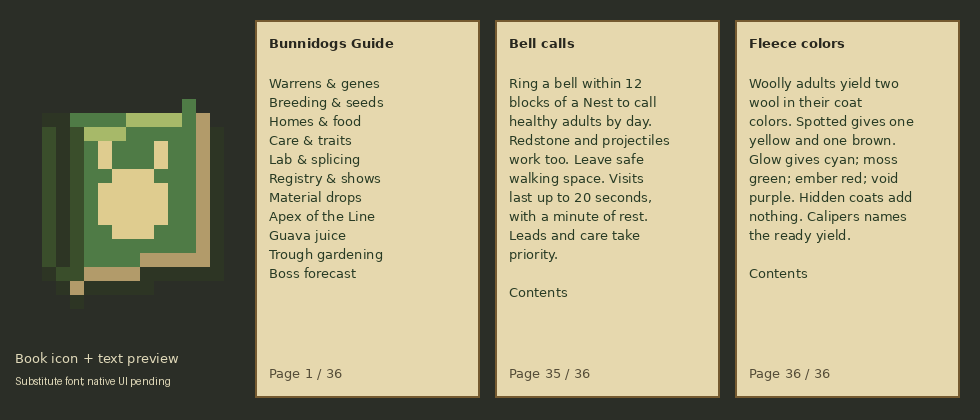
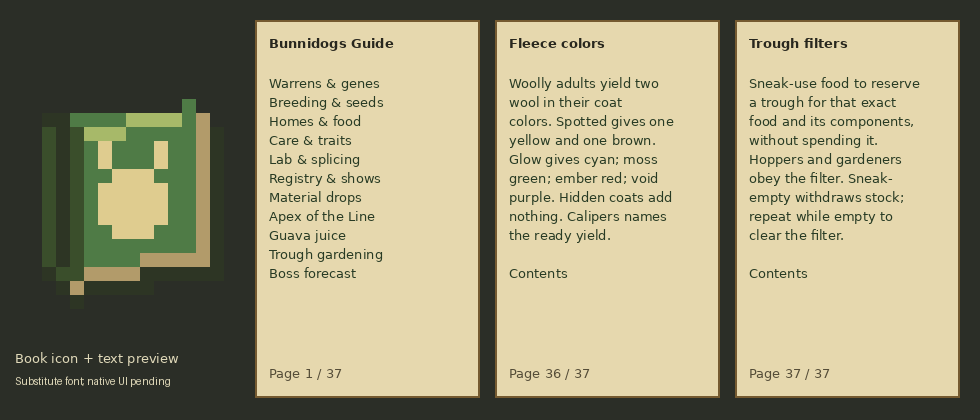
Reserve exact food in saved trough filters across automated gardens

diff --git a/tools/gametest/java/com/bunnidogs/mod/entity/TroughFilterGameTest.java b/tools/gametest/java/com/bunnidogs/mod/entity/TroughFilterGameTest.java
@@ -1,0 +1,75 @@
+package com.bunnidogs.mod.entity;
+
+import com.bunnidogs.mod.block.FeedingTroughBlockEntity;
+import com.bunnidogs.mod.registry.ModBlocks;
+import net.minecraft.core.BlockPos;
+import net.minecraft.core.Direction;
+import net.minecraft.core.component.DataComponents;
+import net.minecraft.gametest.framework.GameTestHelper;
+import net.minecraft.network.chat.Component;
+import net.minecraft.world.InteractionHand;
+import net.minecraft.world.entity.item.ItemEntity;
+import net.minecraft.world.item.ItemStack;
+import net.minecraft.world.item.Items;
+import net.minecraft.world.level.block.entity.BlockEntity;
+import net.minecraft.world.phys.AABB;
+import net.minecraft.world.phys.BlockHitResult;
+import net.minecraft.world.phys.Vec3;
+import net.neoforged.neoforge.capabilities.Capabilities;
+import net.neoforged.neoforge.transfer.item.ItemResource;
+import net.neoforged.neoforge.transfer.transaction.Transaction;
+
+public final class TroughFilterGameTest {
+    private TroughFilterGameTest() {}
+    public static void run(GameTestHelper h) {
+        var level = h.getLevel();
+        h.setBlock(3,1,3,ModBlocks.FEEDING_TROUGH.get());
+        var pos = h.absolutePos(new BlockPos(3,1,3));
+        var trough = (FeedingTroughBlockEntity)level.getBlockEntity(pos);
+        var player = h.makeMockServerPlayerInLevel();
+        player.setShiftKeyDown(true);
+        var named = new ItemStack(Items.CARROT,8);
+        named.set(DataComponents.CUSTOM_NAME,Component.literal("Nursery carrots"));
+        player.setItemInHand(InteractionHand.MAIN_HAND,named);
+        var hit = new BlockHitResult(Vec3.atCenterOf(pos),Direction.UP,pos,false);
+        h.assertTrue(player.gameMode.useItemOn(player,level,named,InteractionHand.MAIN_HAND,hit).consumesAction(),
+                "Actual crouched server interaction must reach filtering instead of bypassing the block");
+        h.assertTrue(trough.food().isEmpty() && named.getCount() == 8 && trough.filter().getCount() == 1
+                && ItemStack.isSameItemSameComponents(named,trough.filter()),"A virtual exact-component filter must spend no food or create stock");
+        var handler = level.getCapability(Capabilities.Item.BLOCK,pos,Direction.UP);
+        try (var tx = Transaction.openRoot()) {
+            h.assertTrue(handler.insert(ItemResource.of(Items.CARROT),3,tx) == 0
+                    && handler.insert(ItemResource.of(Items.POTATO),3,tx) == 0
+                    && handler.insert(ItemResource.of(named),3,tx) == 3,"Empty filtered automation must reject different components/types and accept its exact template");
+            tx.commit();
+        }
+        var potato = new ItemStack(Items.POTATO,8);
+        player.setItemInHand(InteractionHand.MAIN_HAND,potato);
+        player.gameMode.useItemOn(player,level,potato,InteractionHand.MAIN_HAND,hit);
+        h.assertTrue(trough.food().getCount() == 3 && ItemStack.isSameItemSameComponents(named,trough.filter())
+                && potato.getCount() == 8,"A conflicting filter change must retain stock, filter and held food");
+        var saved = trough.saveWithFullMetadata(level.registryAccess());
+        var restored = (FeedingTroughBlockEntity)BlockEntity.loadStatic(pos,trough.getBlockState(),saved,level.registryAccess());
+        h.assertTrue(ItemStack.matches(restored.food(),trough.food()) && ItemStack.matches(restored.filter(),trough.filter())
+                && restored.insert(new ItemStack(Items.CARROT)) == 0,"Native saves must retain exact stock/filter components and enforce the filter");
+        saved.remove("FoodFilter");
+        var legacy = (FeedingTroughBlockEntity)BlockEntity.loadStatic(pos,trough.getBlockState(),saved,level.registryAccess());
+        h.assertTrue(legacy.filter().isEmpty() && legacy.food().getCount() == 3,"Legacy saves must keep stock and remain unfiltered");
+        player.setItemInHand(InteractionHand.MAIN_HAND,ItemStack.EMPTY);
+        player.gameMode.useItemOn(player,level,ItemStack.EMPTY,InteractionHand.MAIN_HAND,hit);
+        h.assertTrue(trough.food().isEmpty() && !trough.filter().isEmpty(),"Withdrawing the final stock must preserve its reservation");
+        int beforeClear = player.getInventory().countItem(Items.CARROT);
+        // Native withdrawal may fill the selected empty slot; free the hand without discarding that food.
+        player.getInventory().setItem(1,player.getMainHandItem());
+        player.setItemInHand(InteractionHand.MAIN_HAND,ItemStack.EMPTY);
+        player.gameMode.useItemOn(player,level,ItemStack.EMPTY,InteractionHand.MAIN_HAND,hit);
+        h.assertTrue(trough.filter().isEmpty() && beforeClear == 3 && player.getInventory().countItem(Items.CARROT) == 3,
+                "Clearing an empty reservation must never refund its virtual template");
+        trough.setFilter(named); trough.insert(named.copyWithCount(2));
+        level.destroyBlock(pos,true);
+        int dropped = level.getEntitiesOfClass(ItemEntity.class,new AABB(pos).inflate(1),e -> ItemStack.isSameItemSameComponents(named,e.getItem()))
+                .stream().mapToInt(e -> e.getItem().getCount()).sum();
+        h.assertTrue(dropped == 2,"Breaking a reserved trough must drop only real stock, never its filter template");
+        h.succeed();
+    }
+}

diff --git a/src/main/java/com/bunnidogs/mod/block/FeedingTroughBlockEntity.java b/src/main/java/com/bunnidogs/mod/block/FeedingTroughBlockEntity.java
@@ -29,11 +29,12 @@ import net.neoforged.neoforge.transfer.item.ItemStackResourceHandler;
 public final class FeedingTroughBlockEntity extends BlockEntity {
     public static final int CAPACITY = 16;
     private ItemStack food = ItemStack.EMPTY;
+    private ItemStack filter = ItemStack.EMPTY;
     /** One journal for every side, retaining the existing Food save and exact components. */
     private final ItemStackResourceHandler automation = new ItemStackResourceHandler() {
         @Override protected ItemStack getStack() { return food; }
         @Override protected void setStack(ItemStack stack) { food = stack; }
-        @Override protected boolean isValid(ItemResource resource) { return accepts(resource.toStack()); }
+        @Override protected boolean isValid(ItemResource resource) { return acceptsInput(resource.toStack()); }
         @Override protected int getCapacity(ItemResource resource) {
             return resource.isEmpty() ? CAPACITY : Math.min(CAPACITY,resource.getMaxStackSize());
         }
@@ -45,23 +46,33 @@ public final class FeedingTroughBlockEntity extends BlockEntity {
                 && (stack.is(ModItems.BUNNIDOG_FOOD) || Arrays.stream(Diet.values()).anyMatch(d -> ModDietTags.accepts(d,stack)));
     }
     public ItemStack food() { return this.food; }
+    public ItemStack filter() { return this.filter.copy(); }
+    private boolean acceptsInput(ItemStack stack) {
+        return accepts(stack) && (this.filter.isEmpty() || ItemStack.isSameItemSameComponents(this.filter,stack));
+    }
+    /** A virtual one-item template, never taken from inventory or dropped as stock. */
+    public boolean setFilter(ItemStack stack) {
+        if (!accepts(stack) || !this.food.isEmpty() && !ItemStack.isSameItemSameComponents(this.food,stack)) return false;
+        this.filter = stack.copyWithCount(1); changed(); return true;
+    }
+    public void clearFilter() { this.filter = ItemStack.EMPTY; changed(); }
     public ResourceHandler<ItemResource> automation() { return this.automation; }
     public int stockSignal() {
         return this.food.isEmpty() ? 0 : 1+14*Math.min(this.food.getCount(),Math.min(CAPACITY,this.food.getMaxStackSize()))
                 / Math.min(CAPACITY,this.food.getMaxStackSize());
     }
     public boolean canInsert(ItemStack stack) {
-        return accepts(stack) && (this.food.isEmpty() || ItemStack.isSameItemSameComponents(this.food,stack))
+        return acceptsInput(stack) && (this.food.isEmpty() || ItemStack.isSameItemSameComponents(this.food,stack))
                 && this.food.getCount() < Math.min(CAPACITY,stack.getMaxStackSize());
     }
     /** Only new worldgen furniture uses this; no live-server block writes from a WorldGenRegion. */
     public void setInitialFood(ItemStack stack) {
-        if (!this.food.isEmpty() || !accepts(stack)) return;
+        if (!this.food.isEmpty() || !acceptsInput(stack)) return;
         this.food = stack.copyWithCount(Math.min(stack.getCount(),Math.min(CAPACITY,stack.getMaxStackSize())));
         this.setChanged();
     }
     public int insert(ItemStack stack) {
-        if (!accepts(stack) || !this.food.isEmpty() && !ItemStack.isSameItemSameComponents(this.food,stack)) return 0;
+        if (!acceptsInput(stack) || !this.food.isEmpty() && !ItemStack.isSameItemSameComponents(this.food,stack)) return 0;
         int amount = Math.max(0,Math.min(stack.getCount(),Math.min(CAPACITY,stack.getMaxStackSize())-this.food.getCount()));
         if (amount > 0) {
             if (this.food.isEmpty()) this.food = stack.copyWithCount(amount); else this.food.grow(amount);
@@ -90,9 +101,11 @@ public final class FeedingTroughBlockEntity extends BlockEntity {
     @Override protected void saveAdditional(ValueOutput output) {
         super.saveAdditional(output);
         if (!this.food.isEmpty()) output.store("Food",ItemStack.CODEC,this.food);
+        if (!this.filter.isEmpty()) output.store("FoodFilter",ItemStack.CODEC,this.filter);
     }
     @Override protected void loadAdditional(ValueInput input) {
         super.loadAdditional(input); this.food = input.read("Food",ItemStack.CODEC).orElse(ItemStack.EMPTY);
+        this.filter = input.read("FoodFilter",ItemStack.CODEC).map(stack -> stack.copyWithCount(1)).orElse(ItemStack.EMPTY);
     }
     @Override public void preRemoveSideEffects(BlockPos pos, BlockState state) {
         super.preRemoveSideEffects(pos,state);

diff --git a/src/main/java/com/bunnidogs/mod/block/FeedingTroughBlock.java b/src/main/java/com/bunnidogs/mod/block/FeedingTroughBlock.java
@@ -50,9 +50,15 @@ public final class FeedingTroughBlock extends Block implements EntityBlock {
         }
         if (!FeedingTroughBlockEntity.accepts(stack)) return super.useItemOn(stack,state,level,pos,player,hand,hit);
         if (!level.isClientSide() && level.getBlockEntity(pos) instanceof FeedingTroughBlockEntity trough) {
+            if (player.isShiftKeyDown()) {
+                player.sendOverlayMessage(trough.setFilter(stack)
+                        ? Component.translatable("message.bunnidogs.trough.filter_set",stack.getHoverName())
+                        : Component.translatable("message.bunnidogs.trough.filter_conflict"));
+                return InteractionResult.SUCCESS;
+            }
             int added = trough.insert(stack);
             if (!player.hasInfiniteMaterials()) stack.shrink(added);
-            player.sendOverlayMessage(Component.translatable("message.bunnidogs.trough.added",added,trough.food().getCount()));
+            player.sendOverlayMessage(withFilter(trough,Component.translatable("message.bunnidogs.trough.added",added,trough.food().getCount())));
         }
         return InteractionResult.SUCCESS;
     }
@@ -60,11 +66,20 @@ public final class FeedingTroughBlock extends Block implements EntityBlock {
         if (!player.getMainHandItem().isEmpty()) return InteractionResult.PASS;
         if (!level.isClientSide() && level.getBlockEntity(pos) instanceof FeedingTroughBlockEntity trough) {
             if (player.isShiftKeyDown() && player.getOffhandItem().isEmpty() && player.mayBuild()) {
+                if (trough.food().isEmpty() && !trough.filter().isEmpty()) {
+                    trough.clearFilter();
+                    player.sendOverlayMessage(Component.translatable("message.bunnidogs.trough.filter_cleared"));
+                    return InteractionResult.SUCCESS;
+                }
                 ItemStack taken = trough.takeAll();
                 if (!player.getInventory().add(taken)) player.drop(taken,false);
-            } else player.sendOverlayMessage(trough.food().isEmpty() ? Component.translatable("message.bunnidogs.trough.empty")
-                    : Component.translatable("message.bunnidogs.trough.stock",trough.food().getCount(),trough.food().getHoverName()));
+                if (!trough.filter().isEmpty()) player.sendOverlayMessage(Component.translatable("message.bunnidogs.trough.filtered",trough.filter().getHoverName()));
+            } else player.sendOverlayMessage(withFilter(trough,trough.food().isEmpty() ? Component.translatable("message.bunnidogs.trough.empty")
+                    : Component.translatable("message.bunnidogs.trough.stock",trough.food().getCount(),trough.food().getHoverName())));
         }
         return InteractionResult.SUCCESS;
+    }
+    private static Component withFilter(FeedingTroughBlockEntity trough, Component stock) {
+        return trough.filter().isEmpty() ? stock : Component.translatable("message.bunnidogs.trough.stock_filter",stock,trough.filter().getHoverName());
     }
 }

diff --git a/art/gen_settlement.py b/art/gen_settlement.py
@@ -48,8 +48,13 @@ def main():
         value = json.loads(path.read_text()); value.update({
           'block.bunnidogs.feeding_trough':'Feeding Trough',
           'message.bunnidogs.trough.added':'Added %s food; %s stored. One food type, up to 16.',
-          'message.bunnidogs.trough.empty':'Empty trough. Add food; use a hoe to toggle resident gardening.',
-          'message.bunnidogs.trough.stock':'Stored: %s x %s. Sneak-empty: withdraw. Hoe: toggle gardening.',
+          'message.bunnidogs.trough.empty':'Empty trough. Add food; sneak-food sets a filter. Hoe: toggle gardening.',
+          'message.bunnidogs.trough.stock':'Stored: %s x %s. Sneak-empty: withdraw. Sneak-food: filter. Hoe: gardening.',
+          'message.bunnidogs.trough.filter_set':'Reserved for %s with matching components. Food was not consumed.',
+          'message.bunnidogs.trough.filter_conflict':'Withdraw the different stored food before changing the filter.',
+          'message.bunnidogs.trough.filtered':'Reserved for %s with matching components. Sneak-empty while empty clears the filter.',
+          'message.bunnidogs.trough.filter_cleared':'Food filter cleared. This trough accepts any suitable food again.',
+          'message.bunnidogs.trough.stock_filter':'%s Reserved for %s (matching components).',
           'message.bunnidogs.trough.tending.on':'Gardening enabled. Healthy residents tend matching ripe crops beside this trough.',
           'message.bunnidogs.trough.tending.off':'Gardening disabled. Residents still eat stored food.',
           'message.bunnidogs.care.gardening':'Gardening: %s',
@@ -60,7 +65,7 @@ def main():
           'message.bunnidogs.gardening.home':'needs a claimed Nest',
           'message.bunnidogs.gardening.daytime':'rests at night',
           'message.bunnidogs.gardening.transported':'paused while led or riding',
-          'message.bunnidogs.gardening.danger':'paused by danger or a recent attack',
+          'message.bunnidogs.gardening.danger':'paused by danger, seeking refuge or a recent attack',
           'message.bunnidogs.gardening.outside_home':'needs to be within 16 blocks of its Nest',
           'message.bunnidogs.gardening.griefing_off':'needs mob griefing enabled'})
         path.write_text(json.dumps(value,indent=2)+'\n')

diff --git a/art/gen_guide.py b/art/gen_guide.py
@@ -40,6 +40,7 @@ PAGES = {
     34: ('Trough automation', 'Hoppers fill troughs from above or the side; one below drains stock. Keep it powered to hold food. One food stack fits up to 16. Comparators read stock: 0 empty, 15 full. A hoe still controls gardening.'),
     35: ('Bell calls', 'Ring a bell within 12 blocks of a Nest to call healthy adults by day. Redstone and projectiles work too. Leave safe walking space. Visits last up to 20 seconds, with a minute of rest. Leads and care take priority.'),
     36: ('Fleece colors', 'Woolly adults yield two wool in their coat colors. Spotted gives one yellow and one brown. Glow gives cyan; moss green; ember red; void purple. Hidden coats add nothing. Calipers names the ready yield.'),
+    37: ('Trough filters', 'Sneak-use food to reserve a trough for that exact food and its components, without spending it. Hoppers and gardeners obey the filter. Sneak-empty withdraws stock; repeat while empty to clear the filter.'),
 }
 INDEX = {2:'Warrens & genes',4:'Breeding & seeds',8:'Homes & food',11:'Care & traits',15:'Lab & splicing',
          17:'Registry & shows',19:'Material drops',20:'Apex of the Line',24:'Guava juice',25:'Trough gardening',27:'Boss forecast'}
@@ -88,7 +89,7 @@ def main():
         bold = ImageFont.truetype('DejaVuSans-Bold.ttf',13)
     except OSError:
         font = bold = ImageFont.load_default()
-    for x,page in [(255,1),(495,35),(735,36)]:
+    for x,page in [(255,1),(495,36),(735,37)]:
         d.rectangle((x,20,x+224,397),fill=(230,216,174),outline=(117,90,48),width=2)
         d.text((x+14,35), 'Bunnidogs Guide' if page == 1 else PAGES[page][0], font=bold,fill=(40,39,30))
         if page == 1: body = '\n'.join(INDEX.values())

diff --git a/tools/gametest/java/com/bunnidogs/mod/entity/GuavaGameTest.java b/tools/gametest/java/com/bunnidogs/mod/entity/GuavaGameTest.java
@@ -55,7 +55,7 @@ public final class GuavaGameTest extends GameTestInstance {
     @SubscribeEvent
     public static void registerTests(RegisterGameTestsEvent event) {
         var environment = event.registerEnvironment(id("guava_integration"), new TestEnvironmentDefinition.AllOf());
-        for (String name : new String[]{"boats", "signs", "transport", "rehoming", "wayfinding", "sampling", "adaptations", "fleece", "splicing", "registry", "table_planning", "show", "grooming", "settlement", "apex", "fixtures", "gardening", "pantry", "fishing", "refuge", "storm_shelter", "trough_automation", "bell_calls"}) {
+        for (String name : new String[]{"boats", "signs", "transport", "rehoming", "wayfinding", "sampling", "adaptations", "fleece", "splicing", "registry", "table_planning", "show", "grooming", "settlement", "apex", "fixtures", "gardening", "pantry", "fishing", "refuge", "storm_shelter", "trough_automation", "bell_calls", "trough_filters"}) {
             event.registerTest(id(name), new GuavaGameTest(name, new TestData<>(environment, id("empty"), 100, 0, true)));
         }
     }
@@ -82,6 +82,7 @@ public final class GuavaGameTest extends GameTestInstance {
             case "storm_shelter" -> { StormShelterGameTest.run(h); return; }
             case "trough_automation" -> { TroughAutomationGameTest.run(h); return; }
             case "bell_calls" -> { BellCallGameTest.run(h); return; }
+            case "trough_filters" -> { TroughFilterGameTest.run(h); return; }
             case "grooming" -> GroomingGameTest.run(h);
             case "settlement" -> { SettlementGameTest.run(h); return; }
             case "transport" -> transport(h);

diff --git a/src/main/java/com/bunnidogs/mod/block/TroughInteraction.java b/src/main/java/com/bunnidogs/mod/block/TroughInteraction.java
@@ -1,0 +1,17 @@
+package com.bunnidogs.mod.block;
+
+import net.minecraft.util.TriState;
+import net.neoforged.neoforge.event.entity.player.PlayerInteractEvent;
+
+/** Vanilla normally bypasses blocks when crouching with food; allow only this reserved action. */
+public final class TroughInteraction {
+    private TroughInteraction() {}
+    public static void onRightClick(PlayerInteractEvent.RightClickBlock event) {
+        var player = event.getEntity();
+        if (!event.isCanceled() && !event.getUseBlock().isFalse() && player.mayBuild() && player.isShiftKeyDown()
+                && FeedingTroughBlockEntity.accepts(player.getItemInHand(event.getHand()))
+                && event.getLevel().hasChunkAt(event.getPos())
+                && event.getLevel().getBlockState(event.getPos()).getBlock() instanceof FeedingTroughBlock)
+            event.setUseBlock(TriState.TRUE);
+    }
+}

diff --git a/tools/gametest/java/com/bunnidogs/mod/entity/GardeningGameTest.java b/tools/gametest/java/com/bunnidogs/mod/entity/GardeningGameTest.java
@@ -73,6 +73,9 @@ public final class GardeningGameTest {
                         && dog.gardeningWait() == 0 && trough.food().isEmpty() && level.getBlockState(cropPos).equals(ripe),
                         "A readiness snapshot must leave crops, stock, home and work recovery untouched");
                 var goal = new GardenGoal(dog);
+                h.assertTrue(trough.setFilter(new ItemStack(Items.POTATO)) && !goal.canUse() && level.getBlockState(cropPos).equals(ripe),
+                        "An empty filtered trough must not make a gardener harvest the wrong crop");
+                trough.clearFilter(); goal = new GardenGoal(dog);
                 h.assertTrue(goal.canUse(),"A healthy forager must find the enabled trough and reachable ripe carrots");
                 goal.start();
                 dog.setPos(Vec3.atBottomCenterOf(h.absolutePos(new BlockPos(5,1,3))));

diff --git a/src/main/java/com/bunnidogs/mod/BunnidogsMod.java b/src/main/java/com/bunnidogs/mod/BunnidogsMod.java
@@ -2,6 +2,7 @@ package com.bunnidogs.mod;
 
 import com.bunnidogs.mod.network.ModNetwork;
 import com.bunnidogs.mod.entity.ResidentBellCalls;
+import com.bunnidogs.mod.block.TroughInteraction;
 import com.bunnidogs.mod.registry.ModBlocks;
 import com.bunnidogs.mod.registry.ModEntities;
 import com.bunnidogs.mod.registry.ModFeatures;
@@ -43,5 +44,6 @@ public class BunnidogsMod {
         modEventBus.addListener(ModItems::addToCreativeTabs);
         modEventBus.addListener(ModNetwork::register);
         NeoForge.EVENT_BUS.addListener(ResidentBellCalls::onGameEvent);
+        NeoForge.EVENT_BUS.addListener(TroughInteraction::onRightClick);
     }
 }

diff --git a/src/main/java/com/bunnidogs/mod/item/FieldGuideItem.java b/src/main/java/com/bunnidogs/mod/item/FieldGuideItem.java
@@ -11,7 +11,7 @@ import net.minecraft.world.item.component.WrittenBookContent;
 
 /** Native book UI/packets, translated pages and local page links; no custom screen or payload. */
 public final class FieldGuideItem extends WrittenBookItem {
-    public static final int PAGE_COUNT = 36;
+    public static final int PAGE_COUNT = 37;
     public FieldGuideItem(Properties properties) {
         super(properties.component(DataComponents.WRITTEN_BOOK_CONTENT, content()));
     }

diff --git a/START_HERE.md b/START_HERE.md
@@ -18,7 +18,12 @@ The user downloads JARs from GitHub Actions artifacts; never attach/link a local
 JAR in chat. Discover `get_usage_limits` at substantial starts/checkpoints. It
 is not exposed in this session: use available work budget without inventing quota.
 
-## Latest gameplay work — 2026-10-16
+## Latest gameplay work — 2026-10-17
+
+- **L11, trough filters:** sneak-food reserves exact item/components without
+  spending food. Hoppers/gardeners respect empty reservations. Withdraw stock
+  with sneak-empty, then repeat while empty to clear. The virtual template is
+  saved separately and never refunded/dropped. See `SETTLEMENT_LIFE.md` L11.
 
 - **C7, fleece palettes:** woolly adults yield two wool in their expressed coat's
   palette. Spotted gives one yellow and one brown; other coats use one color.
@@ -39,7 +44,7 @@ shore fishing (Diet D5), native terrain traits (A4), local supplies (L6), living
 dust (C5) and gardening/fitted farm corners (L5). Their full rules and evidence
 are in the care/settlement specs and `docs/FIXES_PLAN.md` 6.5. Do not redo them.
 
-The native Field Guide has 36 translated pages and eleven contents links.
+The native Field Guide has 37 translated pages and eleven contents links.
 `art/gen_guide.py` owns text/icon/preview; `art/gen_pantries.py` owns eight
 lineage food tables and shares the guide pool. See `docs/FIELD_GUIDE.md`.
 
@@ -55,7 +60,7 @@ lineage food tables and shares the guide pool. See `docs/FIELD_GUIDE.md`.
 | Care | Live Tissue Samples, coat-palette woolly fleece, whiskers/dust, saved recoveries and sneak-Calipers home/food/care/work status. `docs/CARE_SPECS.md` C1–C7 |
 | Adaptations | Expressed fire/cold/fall/Poison/cactus/Levitation benefits, slate armor, heavy-build knockback resistance, self-lit glow and terrain movement. `docs/CARE_SPECS.md` A1–A4 |
 | Homes | Claimable Nests, day tether/night return, floor Nests, native leads/rides, safe led-adult reassignment. `docs/HOME_SPECS.md` H1–H5 |
-| Settlement life | Saved trough stock/automation, diet healing, scheduled/called bell visits, fitted furniture, gardening, local stores, refuge and storm shelter. `docs/SETTLEMENT_LIFE.md` L1–L10 |
+| Settlement life | Saved trough stock/automation/filters, diet healing, scheduled/called bell visits, fitted furniture, gardening, local stores, refuge and storm shelter. `docs/SETTLEMENT_LIFE.md` L1–L11 |
 | Warrens | Fitted dens/mouths/tunnels/cellars, landmark rooms, grand-tree hall/loop/lower commons, cave/Nether/End entrances and saved labels. `docs/WARREN_PLAN.md` U1–U8 |
 | Wood and travel | Guava building/redstone set, doors/shutters/lamps, four sign forms, native boats/chest boats with custom assets and drops. `docs/FIXES_PLAN.md` 4–5 |
 | Drops and endgame | Pelts/materials, Mutagen/Marrow/Tissue/Dust, five stat legends and pedestals. Sample-defined Apex ritual, inherited combat, warned attacks/enrage, boss bar and source-line crest. `docs/DROPS_SPECS.md`, `docs/APEX_SPECS.md` |
@@ -109,8 +114,12 @@ Add `checkBunnidogModel` for mesh/renderer/animation changes. GitHub Actions run
 Avoid the large GenomeCheck suite unless substantial pure genetics/layout work
 requires it; do not repeat passing checks without a relevant change or concern.
 
-The current Java 25 build and all **twenty-four** native scenarios pass
-(twenty-three mod cases plus native sanity). Latest coverage includes:
+The current Java 25 build and all **twenty-five** native scenarios pass
+(twenty-four mod cases plus native sanity). Latest coverage includes:
+
+- **L11:** actual server crouch-food input, exact filter components, conflicts,
+  native saves/legacy stock, empty reservation transfers, withdrawal/clear and
+  no virtual-template refund/drop. Gardeners leave wrong-filter crops intact.
 
 - **L9:** real hopper transfers, effective capacity/components, transaction abort,
   scheduled comparator changes inside one visual fill level, empty stock and
@@ -122,7 +131,7 @@ The current Java 25 build and all **twenty-four** native scenarios pass
   cyan regrowth, spotted's combined yield/one wear, read-only Calipers and all
   palette names/total yields. Save/readiness cases remain covered.
 
-The 36-page guide preview is inspected. Each published GitHub build also checks
+The 37-page guide preview is inspected. Each published GitHub build also checks
 the approved model before uploading its exact-commit artifact. Earlier
 fixture/gardening, diet/fishing, terrain, care/lab/show/registry, transport/Nest,
 refuge/weather, sign/boat and Apex cases remain part of this suite; detailed

diff --git a/docs/SETTLEMENT_LIFE.md b/docs/SETTLEMENT_LIFE.md
@@ -1,4 +1,4 @@
-# Settlement life L1–L10
+# Settlement life L1–L11
 
 Implemented 2026-10-16 under standing continuation authorization. Careful,
 home-bounded routines make resident animals useful and settlements feel occupied.
@@ -277,6 +277,37 @@ lookup, safe native routing, injured/led refusals, rapid-ring limiting, changed
 home interruption, post-visit rest, night refusal and Apex exclusion. Existing
 scheduled-gathering cases still pass. The updated guide preview is inspected;
 natural multiplayer bell use and client contraptions remain gameplay review.
+
+## L11: saved trough filters
+
+Sneak-use suitable food on a trough to reserve it for that exact item and its
+data components. The virtual one-item template consumes nothing and adds no
+stock. A different existing stack must be withdrawn before changing the filter.
+Manual insertion, hopper transfers and gardening all respect the reservation,
+including when the trough is empty. Named food is distinct from unnamed food.
+Normal use still fills; a hoe still controls gardening.
+
+Sneak-use with both hands empty withdraws real stock and retains the filter.
+Repeat while already empty to clear the reservation. Inspection names the filter
+alongside stock. Existing build permissions and explicit interaction denials
+apply. A narrow right-click hook lets this crouched-food action reach the block
+through the native server/client interaction flow, which normally skips blocks
+when crouching with food. Other blocks and denied interactions are untouched.
+
+Optional `FoodFilter` saves the full template components at count one; legacy
+troughs remain unfiltered without restocking. Saved food is preserved even if
+food tags or filter rules later change. Filtering never prevents extraction or
+eating already stored compatible food. The virtual template never drops or
+refunds on clearing/breaking; only actual stock does. Capacity, comparator stock
+math, the existing update packet, block states and native transfer transactions
+remain unchanged. The Field Guide grows to 37 pages.
+
+Actual Java 25 build and all twenty-five native cases pass. The new case uses
+the real crouched server interaction path, exact-component automation, conflict
+refusal, native save/legacy loading, withdrawal/clearing and no virtual-template
+refund/drop. It frees the hand after native withdrawal fills the selected slot.
+The existing gardening case also leaves a wrong-filter crop intact. Guide
+preview inspected; client input and modded-device use remain gameplay review.
 
 ## Evidence
 
